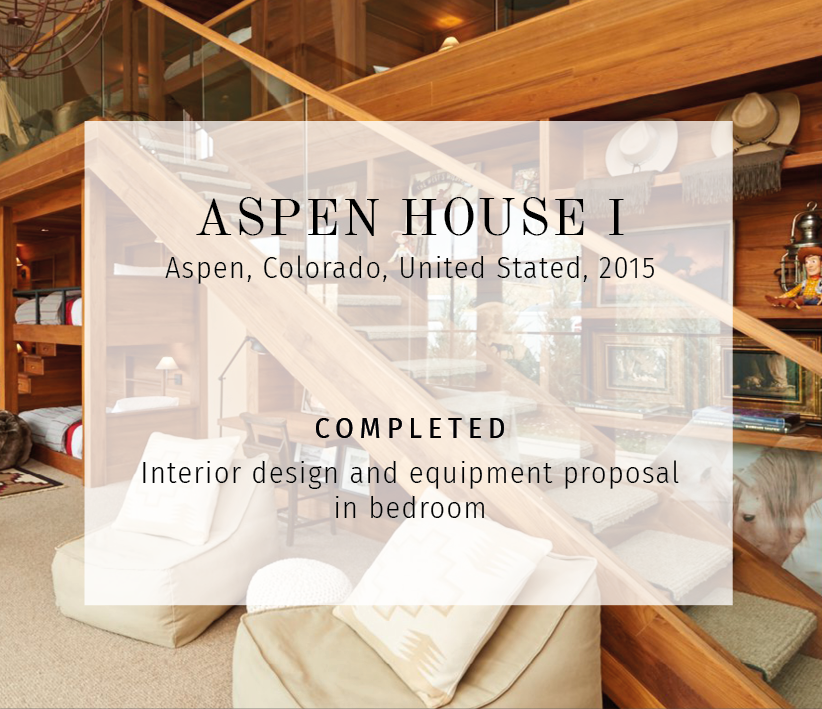
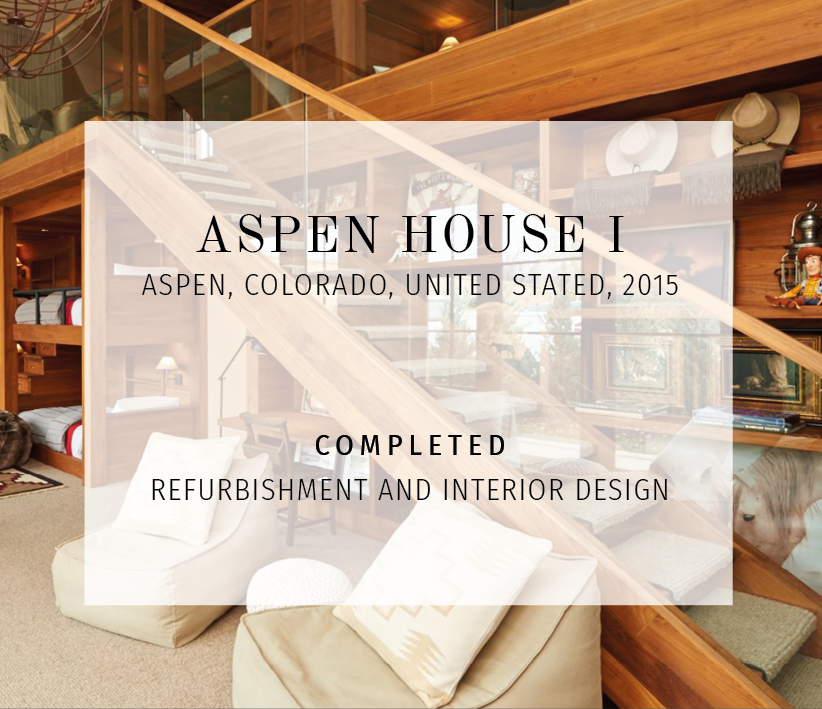
modifications

Changed region(s): [[0.1825, 0.2793, 0.8212, 0.4344], [0.1521, 0.5896, 0.8212, 0.7447]]

diff --git a/index.html b/index.html
@@ -390,16 +390,16 @@
                 <img draggable="false" id="aspen1-close" class="go-back pull-left" src="./images/Flecha izq.png">
                 <p class="card-title" style="padding-top: 50px;">ASPEN CONDO</p>
                 <p class="card-location">Aspen, colorado, us, 2015</p>
-                <p class="card-status" style="padding-top: 29px;">completed</p>
+                <p class="card-status" style="padding-top: 26px;">completed</p>
                 <p class="card-work">REFURBISHMENT AND INTERIOR DESIGN</p>
               </div> 
             </div>
             <div class="speech aspen2-triangle hidden">
              <div class="late-content hidden">
                 <img draggable="false" id="aspen2-close" class="go-back pull-left" src="./images/Flecha izq.png">
-                <p class="card-title" style="padding-top: 50px;">ASPEN HOUSE I</p>
+                <p class="card-title" style="padding-top: 53px;">ASPEN HOUSE I</p>
                 <p class="card-location">Aspen, colorado, us, 2015</p>
-                <p class="card-status">completed</p>
+                <p class="card-status" style="padding-top: 24px;">completed</p>
                 <p class="card-work">REFURBISHMENT AND INTERIOR DESIGN</p>
               </div> 
             </div>
@@ -416,7 +416,7 @@
               <i class="fa fa-times-circle pull-right" id="close-bahamas" aria-hidden="true"></i>
               <p class="card-title" style="padding-top: 50px;">BAHAMAS HOUSE</p>
               <p class="card-location">Windermere isd, the bahamas, 2016</p>
-              <p class="card-status">project</p>
+              <p class="card-status" style="padding-top: 27px;">project</p>
               <p class="card-work">ARCHITECTURE AND INTERIOR DESIGN</p>   
             </div>
             <div class="speech london-triangle hidden">
@@ -485,18 +485,18 @@
             <div class="speech bsas1-triangle hidden">
               <div class="late-content hidden">
                 <img draggable="false" id="bsas1-close" class="go-back pull-left" src="./images/Flecha izq.png">
-                <p class="card-title">BUENOS AIRES APARTMENT</p>
+                <p class="card-title" style="padding-top: 64px;">BUENOS AIRES APARTMENT</p>
                 <p class="card-location">vicente lopez, bs as, argentina, 2016</p>
-                <p class="card-status" style="padding-top: 18px;">completed</p>
+                <p class="card-status" style="padding-top: 8px;">completed</p>
                 <p class="card-work">INTERIOR DESIGN</p>
               </div> 
             </div>
             <div class="speech bsas2-triangle hidden">
               <div class="late-content hidden">
                 <img draggable="false" id="bsas2-close" class="go-back pull-left" src="./images/Flecha izq.png">
-                <p class="card-title">BUENOS AIRES PENTHOUSE</p>
+                <p class="card-title" style="padding-top: 57px;">BUENOS AIRES PENTHOUSE</p>
                 <p class="card-location">vicente lopez, bs as, argentina, 2016</p>
-                <p class="card-status" style="padding-top: 0px;">in progress</p>
+                <p class="card-status" style="padding-top: 12px;">in progress</p>
                 <p class="card-work">INTERIOR DESIGN</p>
               </div> 
             </div>
@@ -509,7 +509,7 @@
             </div>
             <div class="speech caesarea-triangle hidden">
               <i class="fa fa-times-circle pull-right" id="close-caesarea" aria-hidden="true"></i>
-              <p class="card-title">CAESAREA HOUSE</p>
+              <p class="card-title" style="padding-top: 64px;">CAESAREA HOUSE</p>
               <p class="card-location">caesarea, haifa, israel, 2015</p>
               <p class="card-status">completed</p>
               <p class="card-work">ARCHITECTURE AND INTERIOR DESIGN</p>
